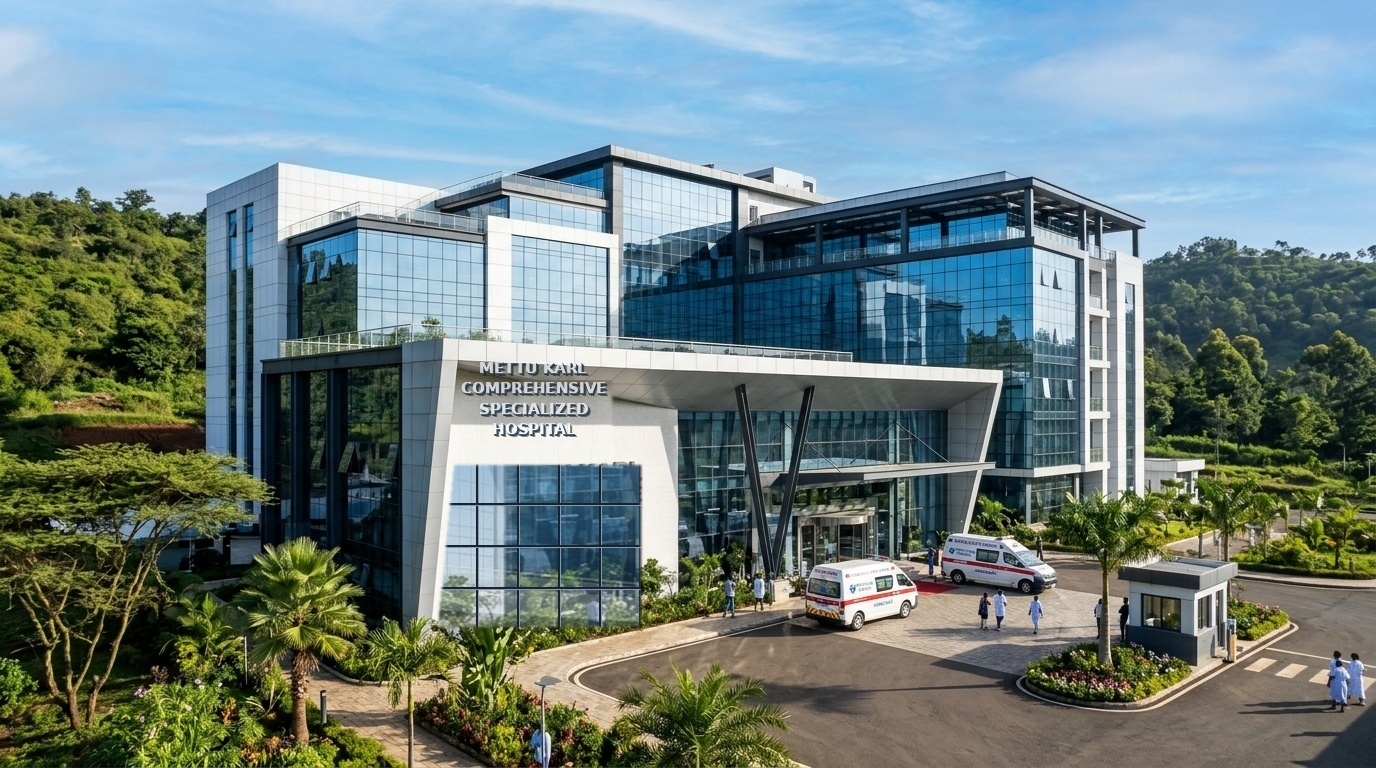
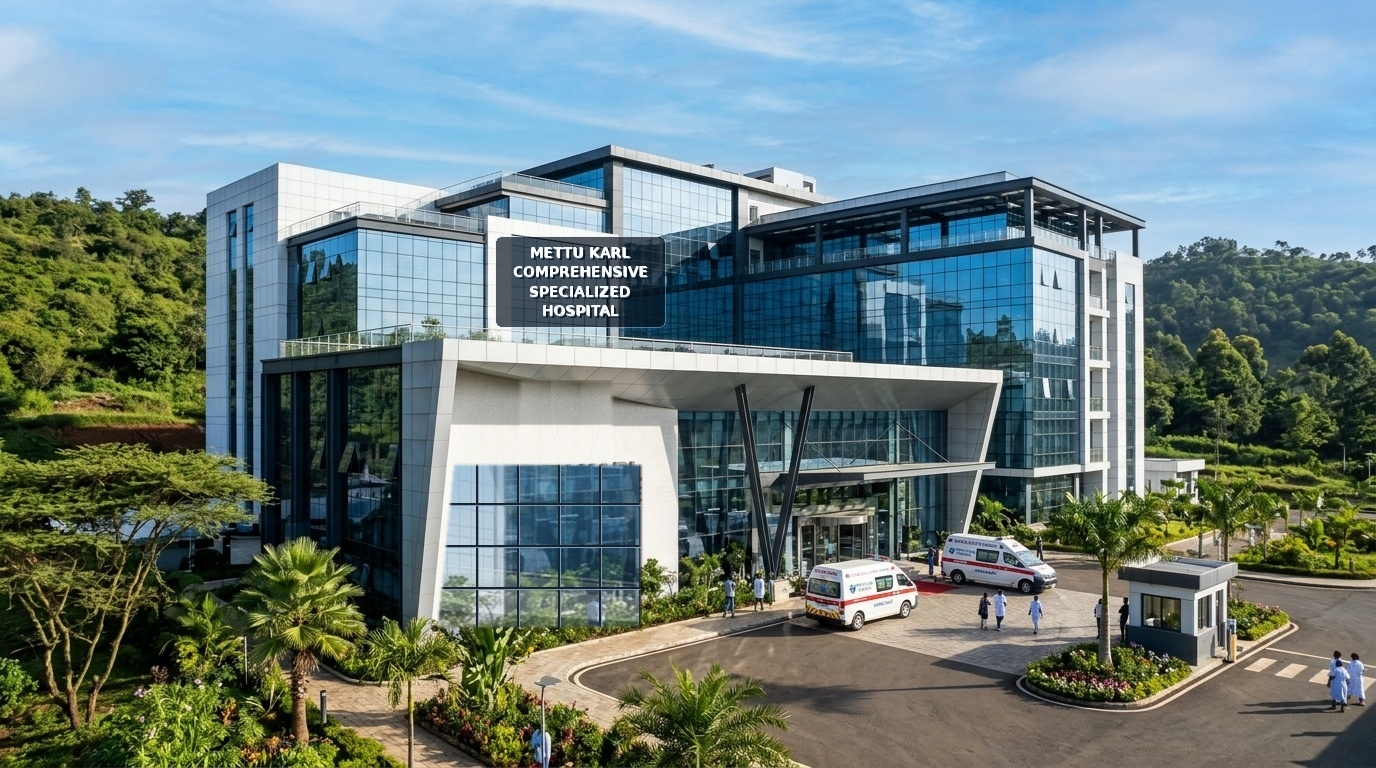
feat(ui): elevate hospital signage onto Ground+1 (fooqii) glass tower facade

Changed region(s): [[0.3438, 0.2812, 0.5, 0.4375], [0.3438, 0.4688, 0.4375, 0.5938]]

diff --git a/frontend/src/app/(auth)/login/page.tsx b/frontend/src/app/(auth)/login/page.tsx
@@ -797,7 +797,7 @@ export default function LoginPage() {
               alt="Mettu Karl Comprehensive Specialized Hospital Building"
               loading="eager"
               decoding="sync"
-              className="w-full h-full object-cover object-[35%_42%] sm:object-[center_35%] transform scale-100"
+              className="w-full h-full object-cover object-[48%_35%] sm:object-[center_35%] transform scale-100"
               style={{
                 imageRendering: 'crisp-edges',
                 WebkitBackfaceVisibility: 'hidden',
